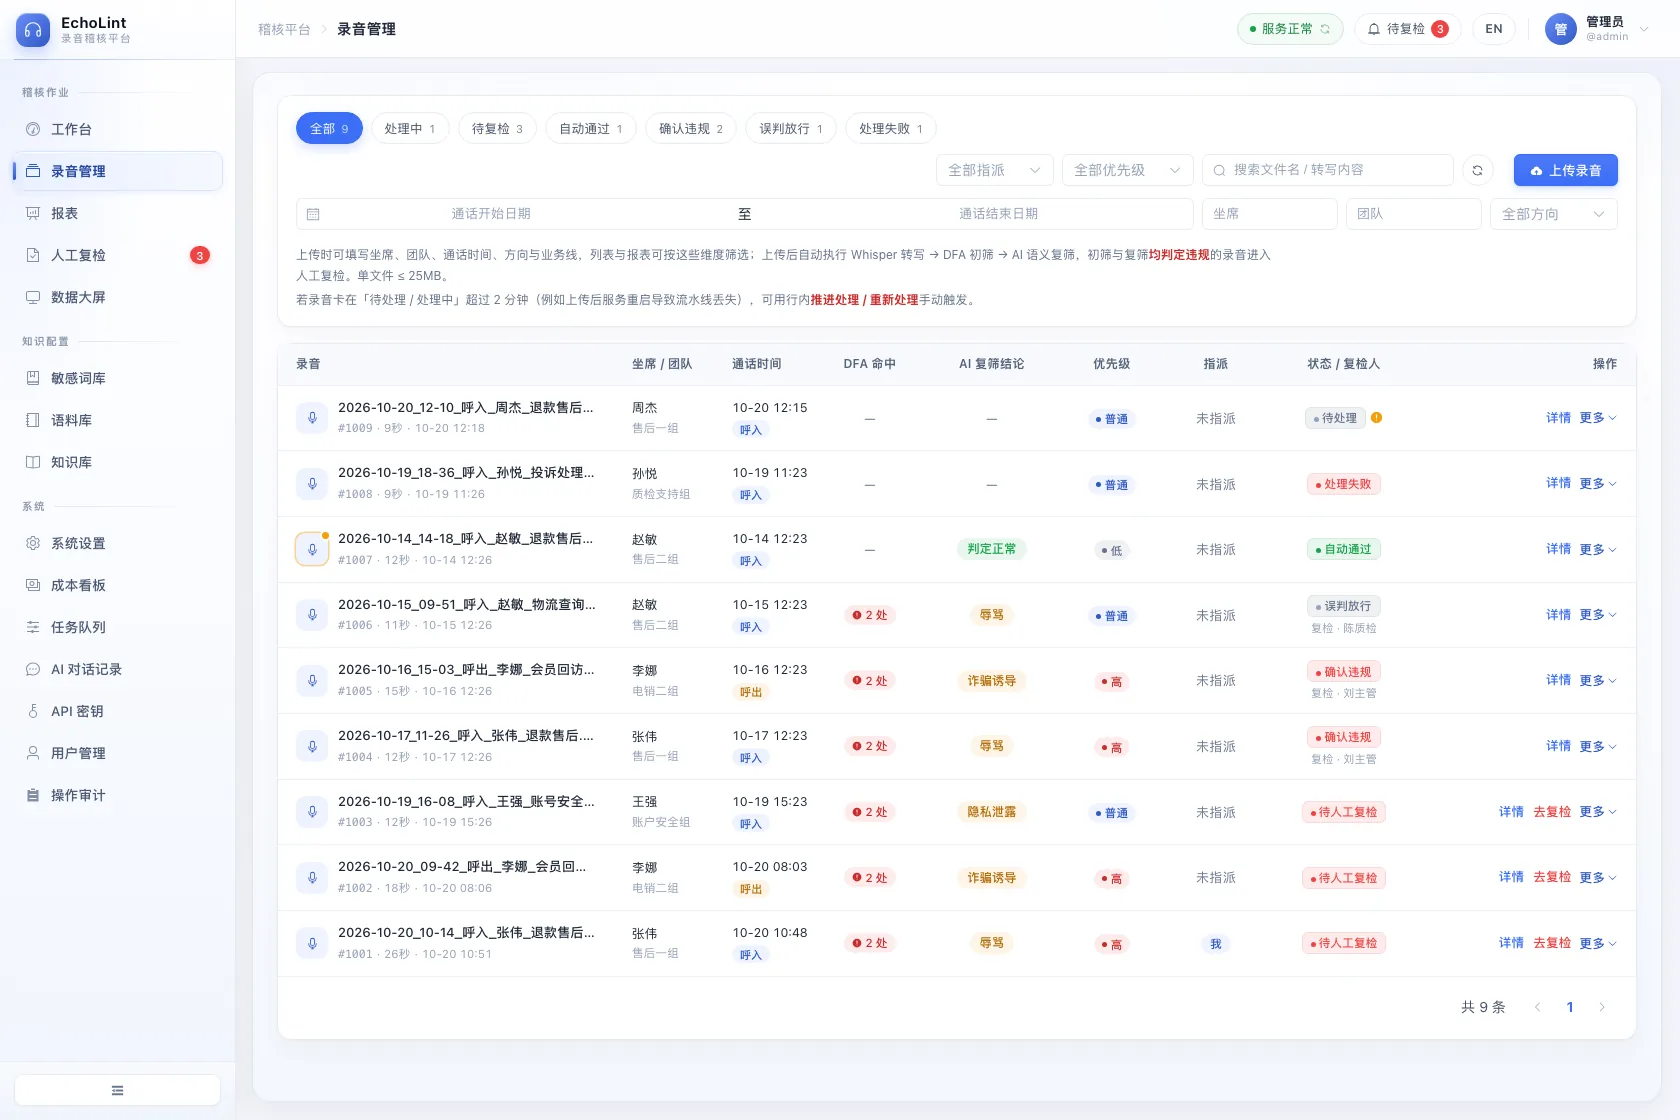
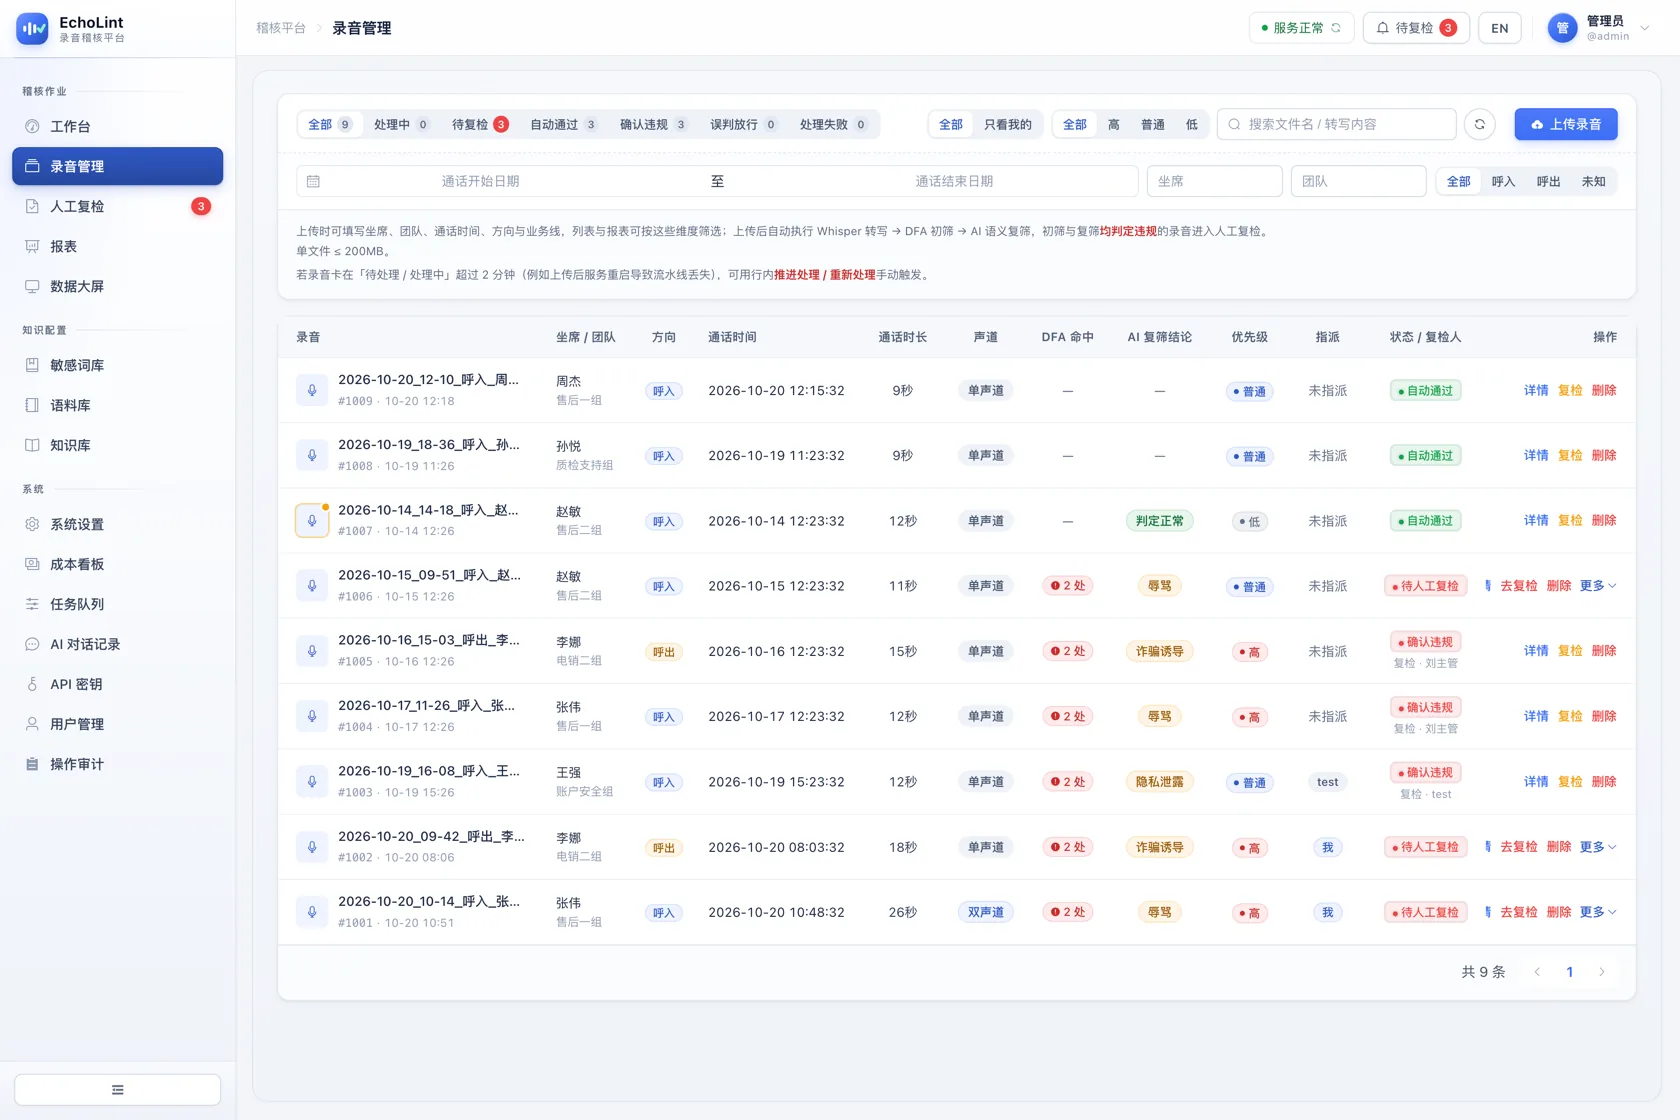
docs: refresh README screenshots and drop stale demo set
README 的 6 张界面图仍是 11-03 的 UI（旧品牌标识、旧设计令牌、旧列布局、
L/R 字母头像），按当前界面重拍：1680×1120，与原图同尺寸同体积量级。

删除 docs/screenshots/demo-2026-10/ 的 13 张图：无任何文档引用，内容停留在
2026-10 的旧 UI（其中设置页已拆分为 5 个子页）。tools/demo/README.md 的
交付物描述同步指向 README 的 6 张图。

diff --git a/tools/demo/README.md b/tools/demo/README.md
@@ -45,5 +45,5 @@ SQL
 
 ## 相关交付物
 
-- 截图：`docs/screenshots/demo-2026-10/`（13 张 WebP：工作台、录音、详情、复检、报表、成本、任务、审计、知识库、AI 治理、大屏、英文界面、移动端）
+- 截图：README「界面」一节的 6 张图（`docs/screenshots/*.webp`）基于这批演示数据拍摄
 - 项目介绍 PDF：`docs/EchoLint-项目介绍.pdf`
